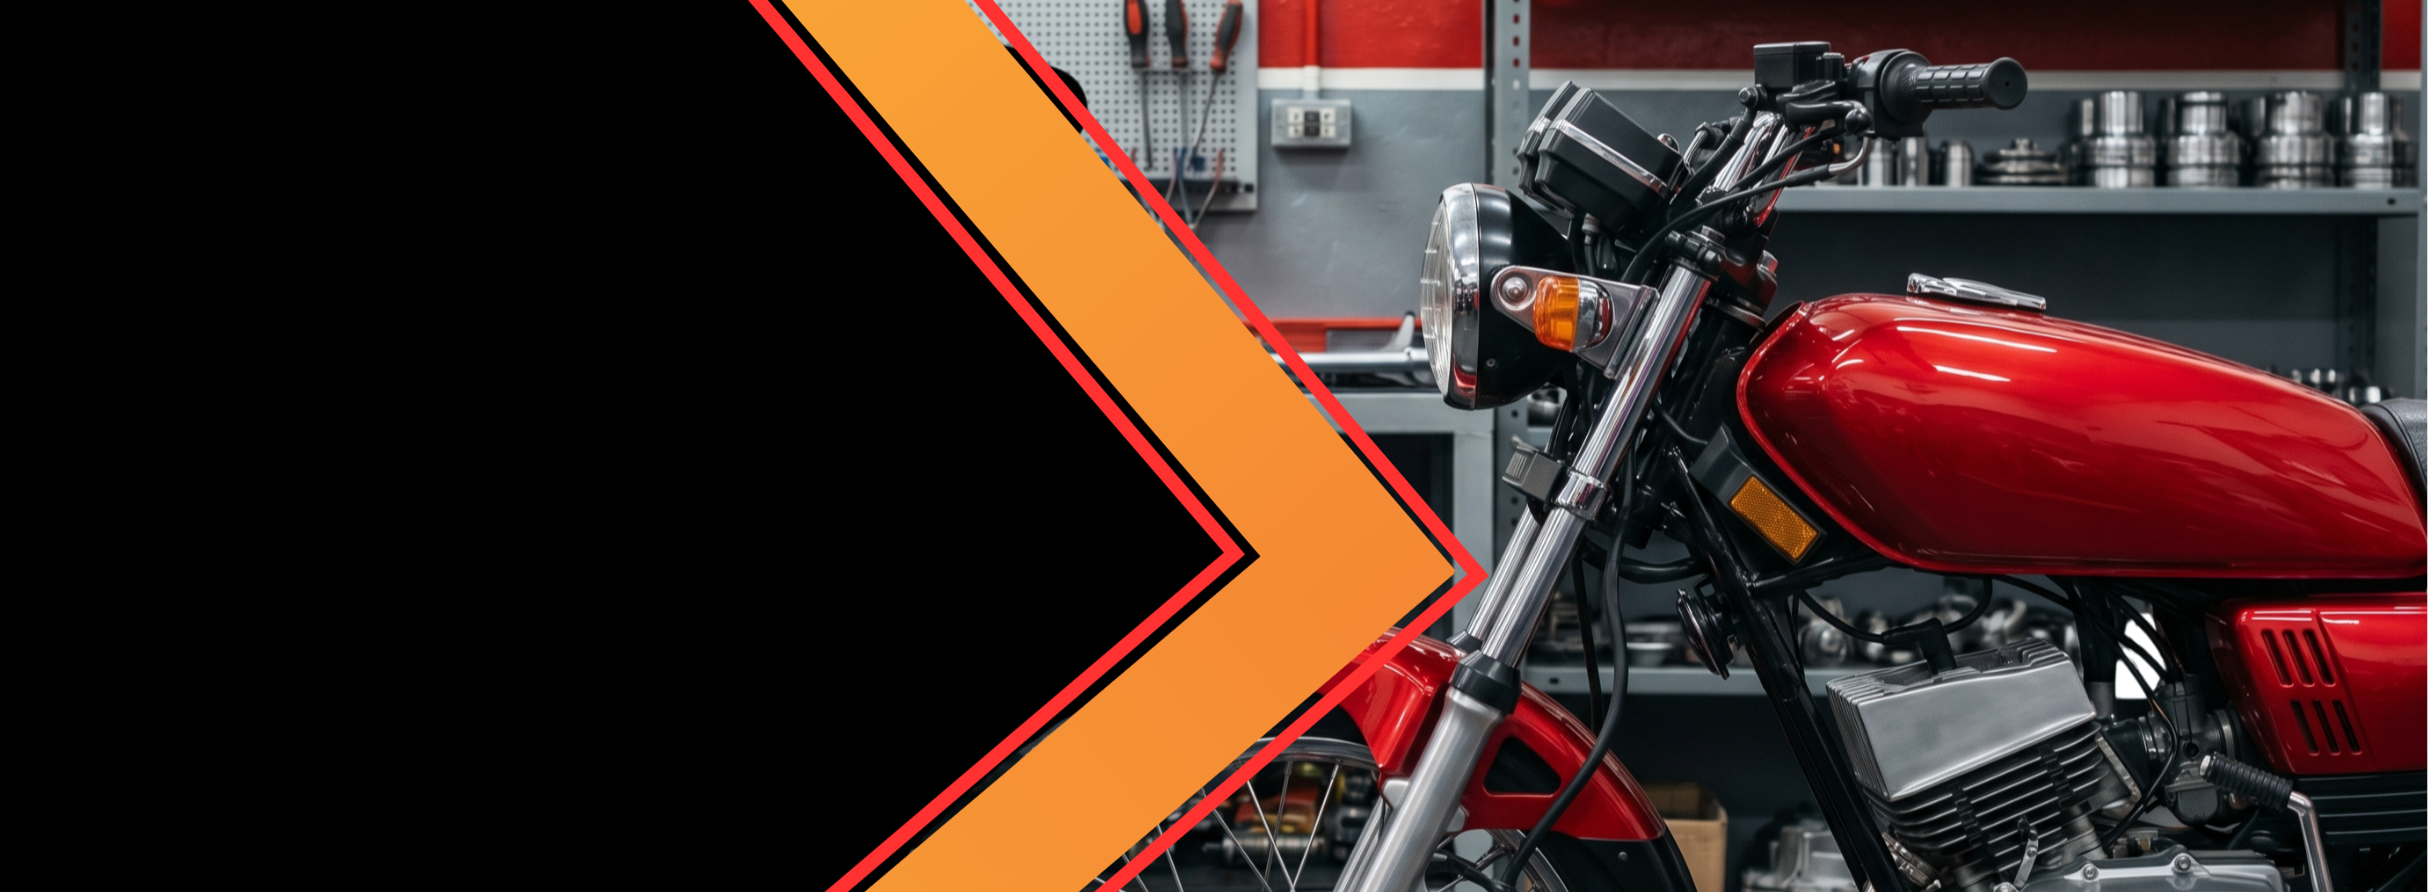
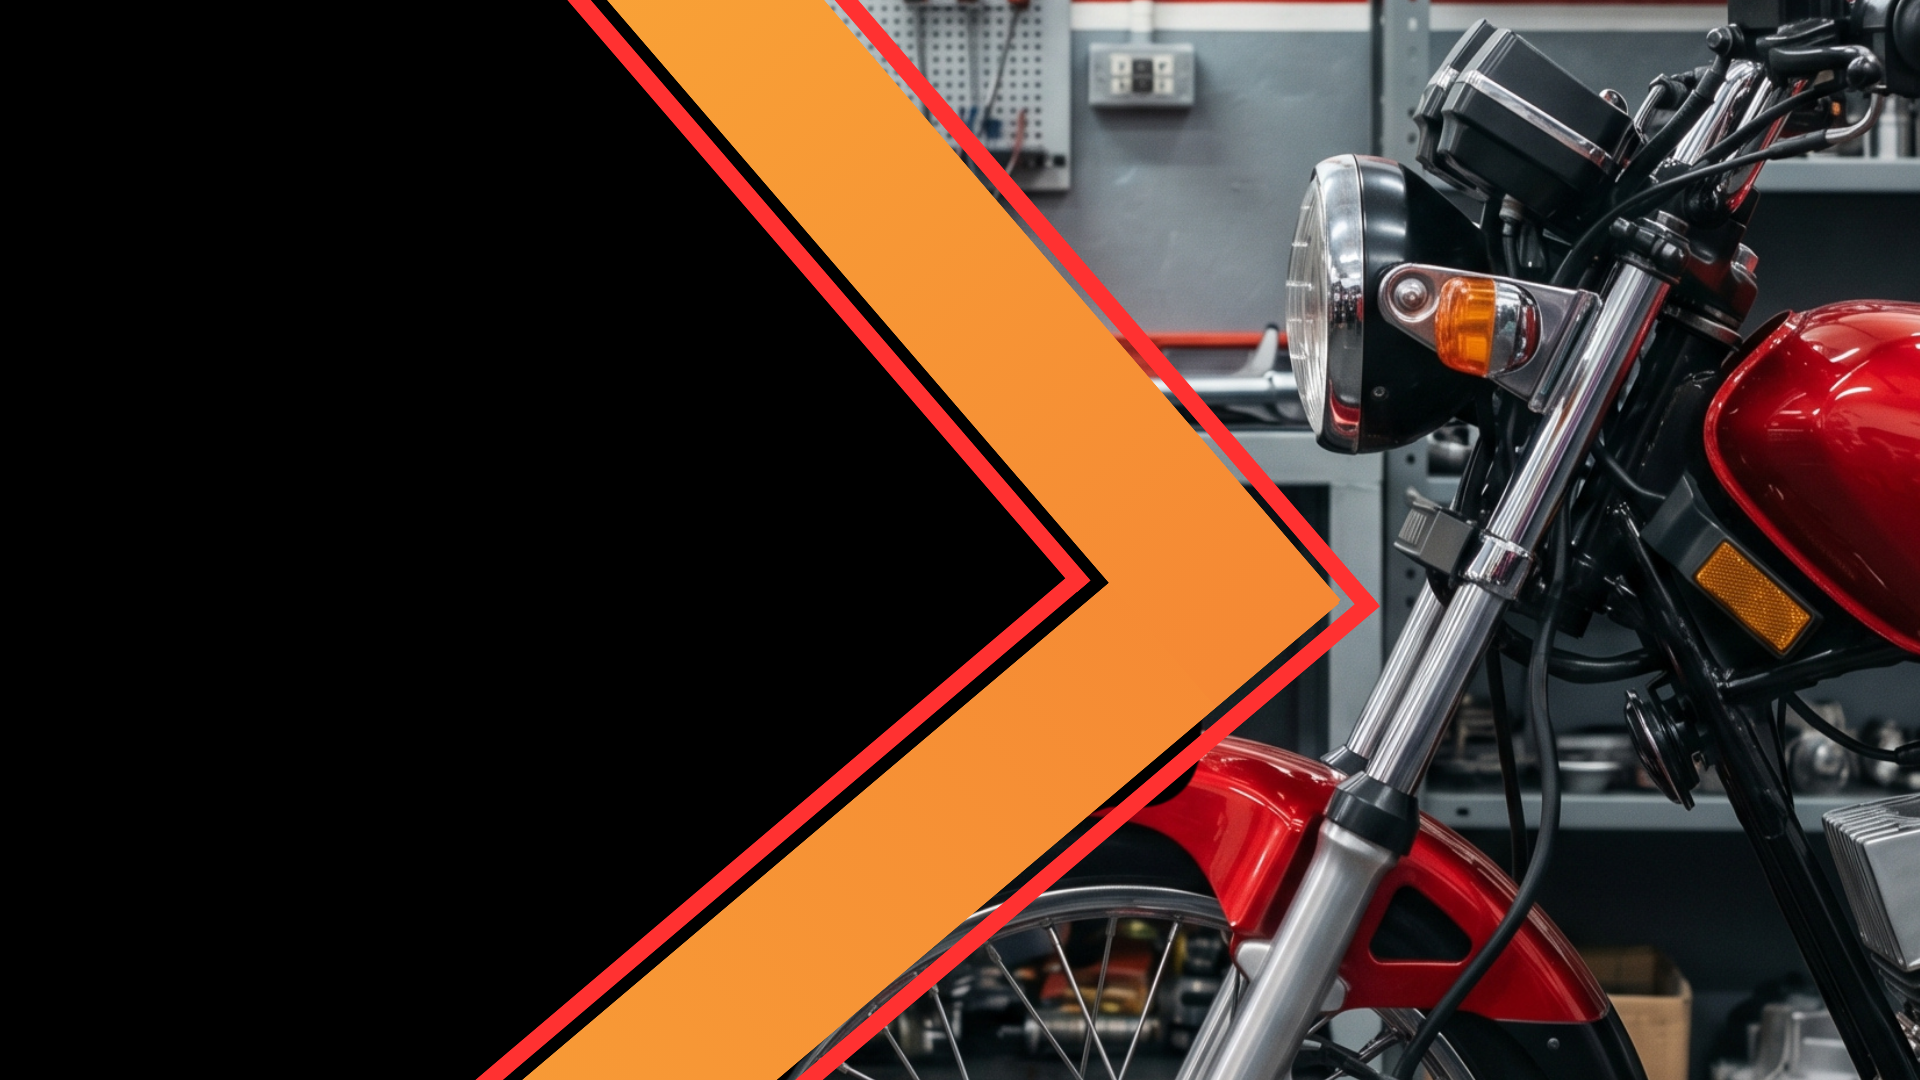
chore: actualizar claude.md y recurso de imagen hero mobile

diff --git a/claude.md b/claude.md
@@ -261,4 +261,4 @@ npm start
 ---
 
 *Última actualización: inicio del proyecto*
-*Desarrollado con Claude Code*
+*Desarrollado con Claude Code*P
